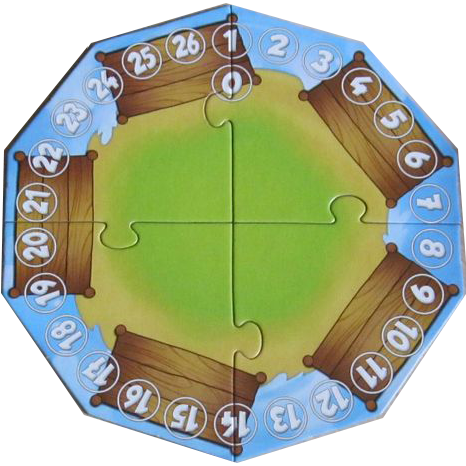
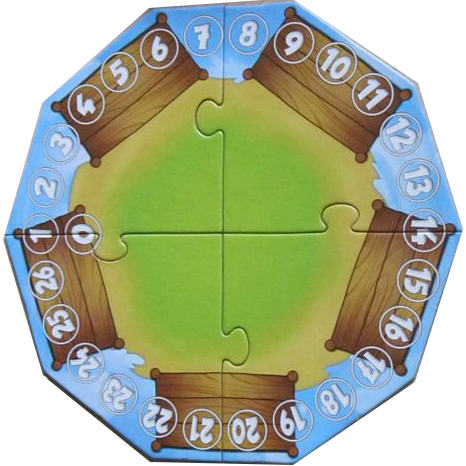
fix points

diff --git a/noah.js b/noah.js
@@ -94,19 +94,19 @@ function formatTextIcons(rawText) {
 var FerrySpot = /** @class */ (function () {
     function FerrySpot(game, position, ferry) {
         var _this = this;
-        var _a;
         this.game = game;
         this.position = position;
+        this.animals = [];
         this.empty = false;
-        this.animals = (_a = ferry === null || ferry === void 0 ? void 0 : ferry.animals) !== null && _a !== void 0 ? _a : [];
         var html = "\n        <div id=\"ferry-spot-" + position + "\" class=\"ferry-spot position" + position + "\">\n            <div id=\"ferry-spot-" + position + "-ferry-card\" class=\"stockitem ferry-card\"></div>\n            <div id=\"ferry-spot-" + position + "-weight-indicator\" class=\"weight-indicator remaining-counter\"></div>         \n        ";
-        /*this.animals.forEach((animal, index) => html += `
-            <div id="ferry-spot-${position}-animal${animal.id}" class="animal-card" style="top : ${100 + index * 30}px; background-position: ${this.getBackgroundPosition(animal)}"></div>
-        `);*/
         html += "</div>";
         dojo.place(html, 'center-board');
-        this.animals.forEach(function (animal) { return _this.addAnimal(animal); });
-        this.empty = !ferry;
+        if (ferry) {
+            ferry.animals.forEach(function (animal) { return _this.addAnimal(animal); });
+        }
+        else {
+            this.empty = true;
+        }
         this.updateCounter();
     }
     FerrySpot.prototype.getBackgroundPosition = function (animal) {
@@ -145,6 +145,7 @@ var FerrySpot = /** @class */ (function () {
     FerrySpot.prototype.updateCounter = function () {
         var text = '';
         if (!this.empty) {
+            console.log(this.animals, this.animals.reduce(function (sum, animal) { return sum + animal.weight; }, 0));
             text = this.animals.reduce(function (sum, animal) { return sum + animal.weight; }, 0) + " / " + (this.animals.some(function (animal) { return animal.power == 5; }) ? 13 : 21);
         }
         document.getElementById("ferry-spot-" + this.position + "-weight-indicator").innerHTML = text;
@@ -159,7 +160,7 @@ var FerrySpot = /** @class */ (function () {
     };
     return FerrySpot;
 }());
-var NOAH_RADIUS = 150;
+var NOAH_RADIUS = 191;
 var MAX_SCORE = 26;
 var Table = /** @class */ (function () {
     function Table(game, players, ferries, noahPosition, remainingFerries) {
@@ -203,16 +204,13 @@ var Table = /** @class */ (function () {
             this.noahLastPosition + spotsToGoUp - 5 :
             this.noahLastPosition + spotsToGoUp;
         this.noahLastPosition = newPosition;
-        return "rotate(" + 72 * newPosition + "deg) translateY(180px)";
+        return "rotate(" + 72 * newPosition + "deg) translateY(50px)";
     };
     Table.prototype.getPointsCoordinates = function (points) {
-        var angle = (Math.max(1, Math.min(points, MAX_SCORE)) / MAX_SCORE) * Math.PI * 2; // in radians
-        var left = NOAH_RADIUS * Math.sin(angle);
-        var top = NOAH_RADIUS * Math.cos(angle);
-        if (points === 0) {
-            top += 50;
-        }
-        return [left, top];
+        var angle = (Math.min((points - 1), MAX_SCORE) / MAX_SCORE) * Math.PI * 2; // in radians
+        var left = -NOAH_RADIUS * Math.cos(angle);
+        var top = -NOAH_RADIUS * Math.sin(angle);
+        return [211 + left, 213 + top];
     };
     Table.prototype.noahMoved = function (position) {
         console.log('noahMoved', position);
@@ -224,16 +222,19 @@ var Table = /** @class */ (function () {
         const playerShouldShift = equality && playerId > opponentId;*/
         if (firstPosition === void 0) { firstPosition = false; }
         var markerDiv = document.getElementById("player-" + playerId + "-point-marker");
-        var coordinates = this.getPointsCoordinates(points);
-        var left = coordinates[0];
-        var top = coordinates[1];
+        var left = 60;
+        var top = 210;
+        if (points > 0) {
+            var coordinates = this.getPointsCoordinates(points);
+            left = coordinates[0];
+            top = coordinates[1];
+        }
         /*if (playerShouldShift) {
             top -= 5;
             left -= 5;
         }*/
         if (firstPosition) {
-            markerDiv.style.top = top + "px";
-            markerDiv.style.left = left + "px";
+            markerDiv.style.transform = "translateX(" + left + "px) translateY(" + top + "px)";
         }
         else {
             dojo.fx.slideTo({

diff --git a/noah.css b/noah.css
@@ -6,7 +6,7 @@
 }
 #table .ferry-spot {
   top: 233px;
-  left: 116px;
+  left: 136px;
   position: absolute;
   width: 185px;
   transform-origin: top center;
@@ -16,19 +16,19 @@
   top: 5px;
 }
 #table .ferry-spot.position0 {
-  transform: rotate(0deg) translateY(180px);
+  transform: rotate(0deg) translateY(235px);
 }
 #table .ferry-spot.position1 {
-  transform: rotate(72deg) translateY(180px);
+  transform: rotate(72deg) translateY(235px);
 }
 #table .ferry-spot.position2 {
-  transform: rotate(144deg) translateY(180px);
+  transform: rotate(144deg) translateY(235px);
 }
 #table .ferry-spot.position3 {
-  transform: rotate(216deg) translateY(180px);
+  transform: rotate(216deg) translateY(235px);
 }
 #table .ferry-spot.position4 {
-  transform: rotate(288deg) translateY(180px);
+  transform: rotate(288deg) translateY(235px);
 }
 #table .ferry-spot .ferry-card {
   background: url("img/ferry-back.jpg");
@@ -63,7 +63,7 @@
 #table #center-board .noah-spot {
   position: absolute;
   top: 233px;
-  left: 116px;
+  left: 163px;
   width: 120px;
   height: 120px;
   pointer-events: none;
@@ -78,26 +78,29 @@
   border: 5px dashed red;
 }
 #table #center-board .noah-spot.position0 {
-  transform: rotate(0deg) translateY(180px);
+  transform: rotate(0deg) translateY(50px);
 }
 #table #center-board .noah-spot.position1 {
-  transform: rotate(72deg) translateY(180px);
+  transform: rotate(72deg) translateY(50px);
 }
 #table #center-board .noah-spot.position2 {
-  transform: rotate(144deg) translateY(180px);
+  transform: rotate(144deg) translateY(50px);
 }
 #table #center-board .noah-spot.position3 {
-  transform: rotate(216deg) translateY(180px);
+  transform: rotate(216deg) translateY(50px);
 }
 #table #center-board .noah-spot.position4 {
-  transform: rotate(288deg) translateY(180px);
+  transform: rotate(288deg) translateY(50px);
 }
 #table #center-board .point-marker {
   position: absolute;
+  top: 0;
+  left: 0;
   width: 44px;
   height: 44px;
   box-shadow: 1px 1px 2px 2px black;
   border-radius: 50%;
+  transition: transform 0.5s;
 }
 #table #center-board #ferry-deck {
   position: absolute;
@@ -112,7 +115,7 @@
 #table #center-board .remaining-counter {
   position: absolute;
   text-align: center;
-  text-shadow: 1px 1px 1px white;
+  text-shadow: 0 0 2px white;
 }
 #table #center-board #remaining-ferry-counter {
   top: 280px;

diff --git a/src/table/table.ts b/src/table/table.ts
@@ -1,4 +1,4 @@
-const NOAH_RADIUS = 150;
+const NOAH_RADIUS = 191;
 const MAX_SCORE = 26;
 
 class Table {
@@ -59,18 +59,15 @@ class Table {
 
         this.noahLastPosition = newPosition;
 
-        return `rotate(${72 * newPosition}deg) translateY(180px)`;
+        return `rotate(${72 * newPosition}deg) translateY(50px)`;
     }
 
     private getPointsCoordinates(points: number) {
-        const angle = (Math.max(1, Math.min(points, MAX_SCORE))/MAX_SCORE)*Math.PI*2; // in radians
-        const left = NOAH_RADIUS*Math.sin(angle);
-        let top = NOAH_RADIUS*Math.cos(angle);
-        if (points === 0) {
-            top += 50;
-        }
+        const angle = (Math.min((points-1), MAX_SCORE)/MAX_SCORE)*Math.PI*2; // in radians
+        const left = -NOAH_RADIUS*Math.cos(angle);
+        let top = -NOAH_RADIUS*Math.sin(angle);
 
-        return [left, top];
+        return [211 + left, 213 + top];
     }
     
     public noahMoved(position: number) {console.log('noahMoved', position);
@@ -85,9 +82,13 @@ class Table {
 
         const markerDiv = document.getElementById(`player-${playerId}-point-marker`);
 
-        const coordinates = this.getPointsCoordinates(points);
-        let left = coordinates[0];
-        let top = coordinates[1];
+        let left = 60;
+        let top = 210;
+        if (points > 0) {
+            const coordinates = this.getPointsCoordinates(points);
+            left = coordinates[0];
+            top = coordinates[1];
+        }
 
         /*if (playerShouldShift) {
             top -= 5;
@@ -95,8 +96,7 @@ class Table {
         }*/
 
         if (firstPosition) {
-            markerDiv.style.top = `${top}px`;
-            markerDiv.style.left = `${left}px`;
+            markerDiv.style.transform = `translateX(${left}px) translateY(${top}px)`;
         } else {
             dojo.fx.slideTo({
                 node: markerDiv,

diff --git a/src/table/ferry/ferry.ts b/src/table/ferry/ferry.ts
@@ -1,29 +1,27 @@
 class FerrySpot {
 
-    public animals: Animal[];
+    public animals: Animal[] = [];
     private empty: boolean = false;
 
     constructor(
         private game: NoahGame,
         public position: number,
         ferry: Ferry,
-    ) {
-        this.animals = ferry?.animals ?? [];
-        
+    ) { 
         let html = `
         <div id="ferry-spot-${position}" class="ferry-spot position${position}">
             <div id="ferry-spot-${position}-ferry-card" class="stockitem ferry-card"></div>
             <div id="ferry-spot-${position}-weight-indicator" class="weight-indicator remaining-counter"></div>         
         `;
-        /*this.animals.forEach((animal, index) => html += `
-            <div id="ferry-spot-${position}-animal${animal.id}" class="animal-card" style="top : ${100 + index * 30}px; background-position: ${this.getBackgroundPosition(animal)}"></div>
-        `);*/
         html += `</div>`;
 
         dojo.place(html, 'center-board');
 
-        this.animals.forEach(animal => this.addAnimal(animal));
-        this.empty = !ferry;
+        if (ferry) {
+            ferry.animals.forEach(animal => this.addAnimal(animal));
+        } else {
+            this.empty = true;
+        }
         this.updateCounter();
     }
 
@@ -71,6 +69,7 @@ class FerrySpot {
     private updateCounter() {
         let text = '';
         if (!this.empty) {
+            console.log(this.animals, this.animals.reduce((sum, animal) => sum + animal.weight, 0));
             text = `${this.animals.reduce((sum, animal) => sum + animal.weight, 0)} / ${this.animals.some(animal => animal.power == 5) ? 13 : 21}`;
         }
         document.getElementById(`ferry-spot-${this.position}-weight-indicator`).innerHTML = text;

diff --git a/src/table/_table.scss b/src/table/_table.scss
@@ -21,7 +21,7 @@
     .noah-spot {
       position: absolute;
       top: 233px;
-      left: 116px;
+      left: 163px;
       width: 120px;
       height: 120px;
       pointer-events: none;
@@ -38,17 +38,20 @@
 
       @for $i from 0 through 4 {
         &.position#{$i} {
-            transform: rotate(72deg * $i) translateY(180px);
+            transform: rotate(72deg * $i) translateY(50px);
         }
       }
     }
 
     .point-marker {
       position: absolute;
+      top: 0;
+      left: 0;
       width: 44px;
       height: 44px;
       box-shadow: 1px 1px 2px 2px black;
       border-radius: 50%;
+      transition: transform 0.5s;
     }
 
     #ferry-deck {
@@ -65,7 +68,7 @@
     .remaining-counter {
       position: absolute;
       text-align: center;
-      text-shadow: 1px 1px 1px white;
+      text-shadow: 0 0 2px white;
     }
     
     #remaining-ferry-counter {

diff --git a/src/table/ferry/_ferry.scss b/src/table/ferry/_ferry.scss
@@ -1,6 +1,6 @@
   .ferry-spot {
     top: 233px;
-    left: 116px;
+    left: 136px;
     position: absolute;
     width: 185px;
     transform-origin: top center;
@@ -14,7 +14,7 @@
 
     @for $i from 0 through 4 {
       &.position#{$i} {
-          transform: rotate(72deg * $i) translateY(180px);
+          transform: rotate(72deg * $i) translateY(235px);
       }
     }
   
